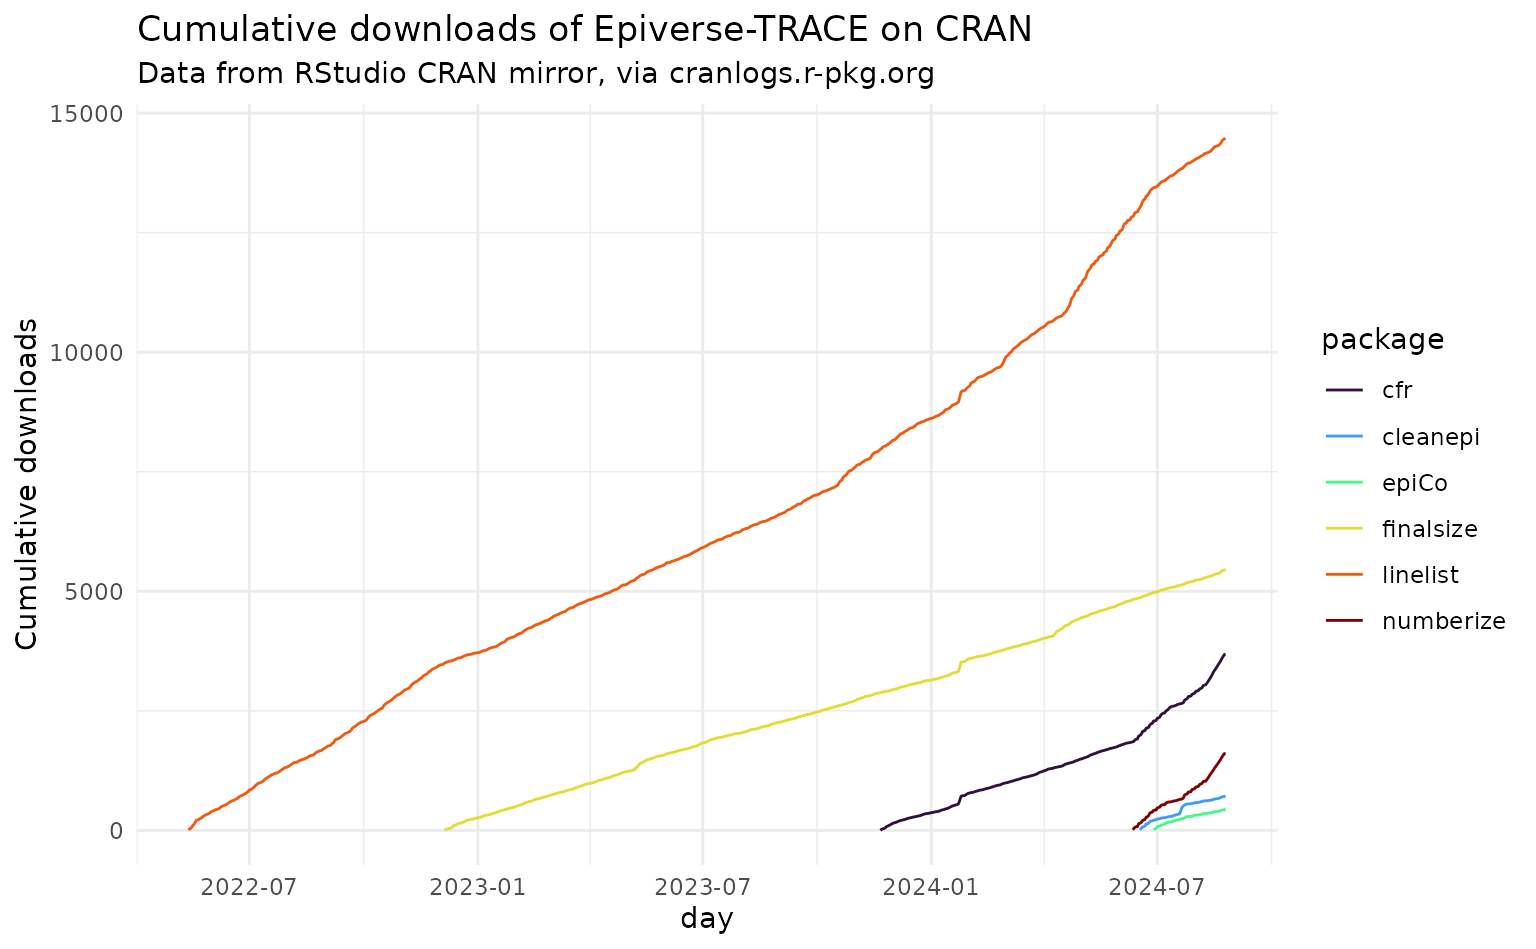
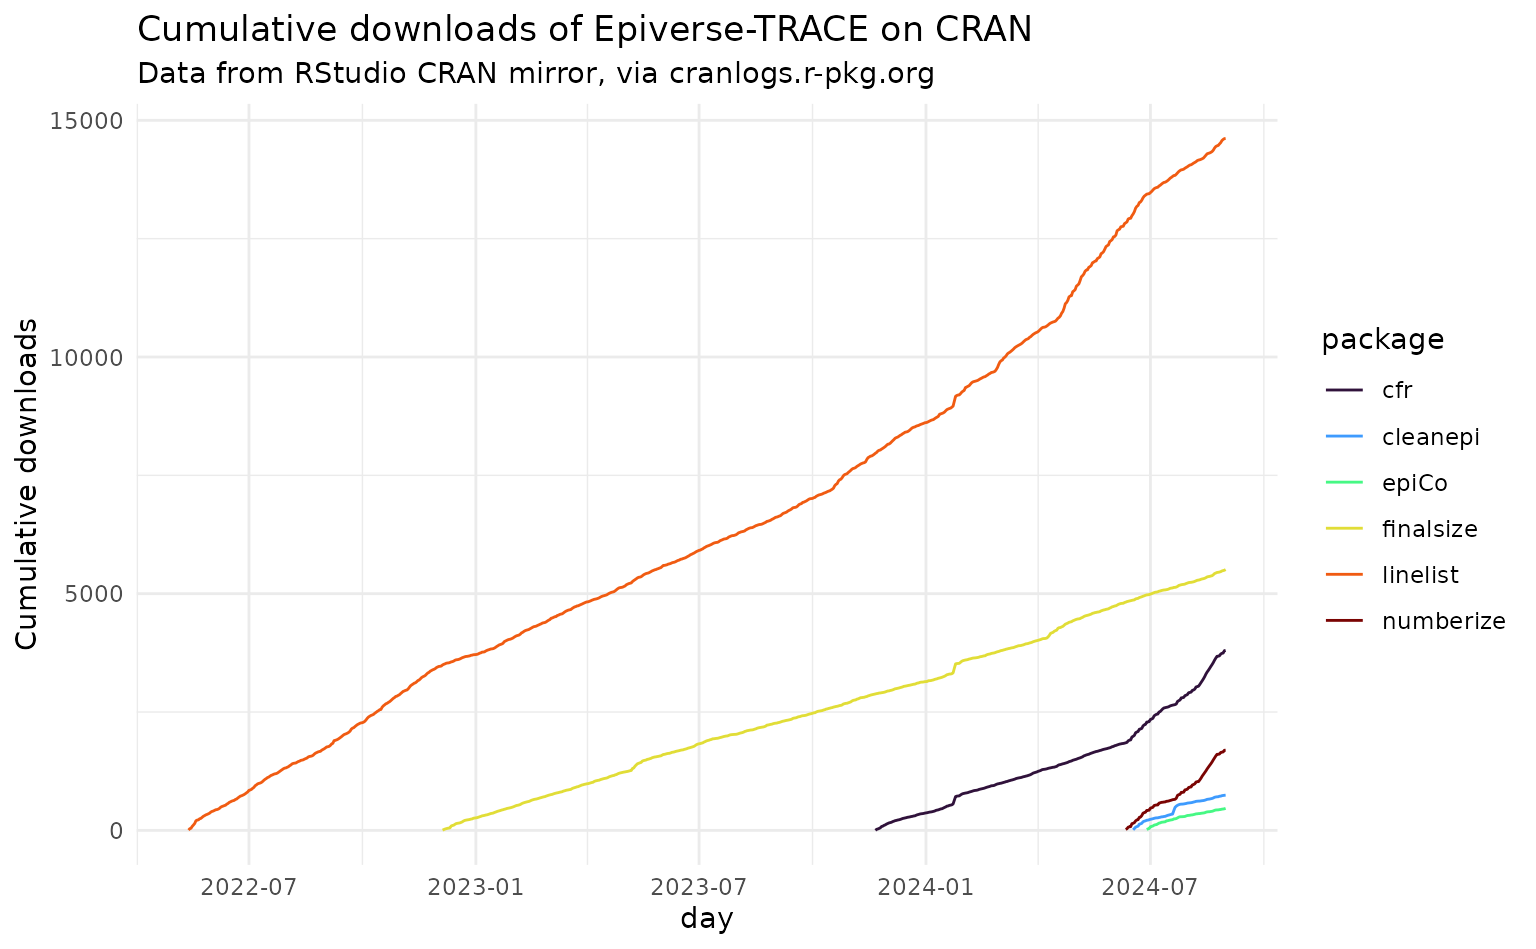
Deploying to gh-pages from @ epiverse-trace/etstats@c73ed3583c87a1893495698bd6479e8f2f792dd1 🚀

diff --git a/articles/cran-statistics.html b/articles/cran-statistics.html
@@ -74,7 +74,7 @@
 
       <h1>CRAN statistics</h1>
             
-            <h4 data-toc-skip class="date">2024-08-27</h4>
+            <h4 data-toc-skip class="date">2024-09-02</h4>
       
       <small class="dont-index">Source: <a href="https://github.com/epiverse-trace/etstats/blob/main/vignettes/cran-statistics.Rmd" class="external-link"><code>vignettes/cran-statistics.Rmd</code></a></small>
       <div class="d-none name"><code>cran-statistics.Rmd</code></div>
@@ -91,7 +91,7 @@
 <li><a href="https://cran.r-project.org/package=linelist" class="external-link">linelist</a></li>
 <li><a href="https://cran.r-project.org/package=finalsize" class="external-link">finalsize</a></li>
 </ul>
-<p>In total, Epiverse-TRACE packages on CRAN have been downloaded 26351
+<p>In total, Epiverse-TRACE packages on CRAN have been downloaded 26831
 times.</p>
 <p>Below is a visualization of the breakdown of this grand total by
 package over time.</p>
@@ -108,43 +108,43 @@ package over time.</p>
 <td align="left">finalsize</td>
 <td align="right">260</td>
 <td align="right">2881</td>
-<td align="right">2311</td>
+<td align="right">2369</td>
 </tr>
 <tr class="even">
 <td align="left">linelist</td>
 <td align="right">3712</td>
 <td align="right">4898</td>
-<td align="right">5859</td>
+<td align="right">6007</td>
 </tr>
 <tr class="odd">
 <td align="left">cfr</td>
 <td align="right">NA</td>
 <td align="right">364</td>
-<td align="right">3316</td>
+<td align="right">3438</td>
 </tr>
 <tr class="even">
 <td align="left">cleanepi</td>
 <td align="right">NA</td>
 <td align="right">NA</td>
-<td align="right">710</td>
+<td align="right">743</td>
 </tr>
 <tr class="odd">
 <td align="left">epiCo</td>
 <td align="right">NA</td>
 <td align="right">NA</td>
-<td align="right">433</td>
+<td align="right">465</td>
 </tr>
 <tr class="even">
 <td align="left">numberize</td>
 <td align="right">NA</td>
 <td align="right">NA</td>
-<td align="right">1607</td>
+<td align="right">1694</td>
 </tr>
 <tr class="odd">
 <td align="left">Total</td>
 <td align="right">3972</td>
 <td align="right">8143</td>
-<td align="right">14236</td>
+<td align="right">14716</td>
 </tr>
 </tbody>
 </table></main>

diff --git a/articles/github-statistics.html b/articles/github-statistics.html
@@ -74,7 +74,7 @@
 
       <h1>GitHub statistics</h1>
             
-            <h4 data-toc-skip class="date">2024-08-27</h4>
+            <h4 data-toc-skip class="date">2024-09-02</h4>
       
       <small class="dont-index">Source: <a href="https://github.com/epiverse-trace/etstats/blob/main/vignettes/github-statistics.Rmd" class="external-link"><code>vignettes/github-statistics.Rmd</code></a></small>
       <div class="d-none name"><code>github-statistics.Rmd</code></div>
@@ -94,8 +94,8 @@ followers.</p>
 <div class="section level3">
 <h3 id="totals">Totals<a class="anchor" aria-label="anchor" href="#totals"></a>
 </h3>
-<p>In total, we have 195 stars across all Epiverse-TRACE packages. These
-stars come from 116 unique users.</p>
+<p>In total, we have 196 stars across all Epiverse-TRACE packages. These
+stars come from 117 unique users.</p>
 <p><img src="github-statistics_files/figure-html/unnamed-chunk-5-1.png" width="768"></p>
 </div>
 <div class="section level3">
@@ -234,7 +234,7 @@ stars come from 116 unique users.</p>
 <td align="left">serofoi</td>
 <td align="right">0</td>
 <td align="right">8</td>
-<td align="right">8</td>
+<td align="right">9</td>
 </tr>
 <tr class="even">
 <td align="left">sivirep</td>
@@ -264,7 +264,7 @@ stars come from 116 unique users.</p>
 <td align="left">Total</td>
 <td align="right">24</td>
 <td align="right">89</td>
-<td align="right">82</td>
+<td align="right">83</td>
 </tr>
 </tbody>
 </table>
